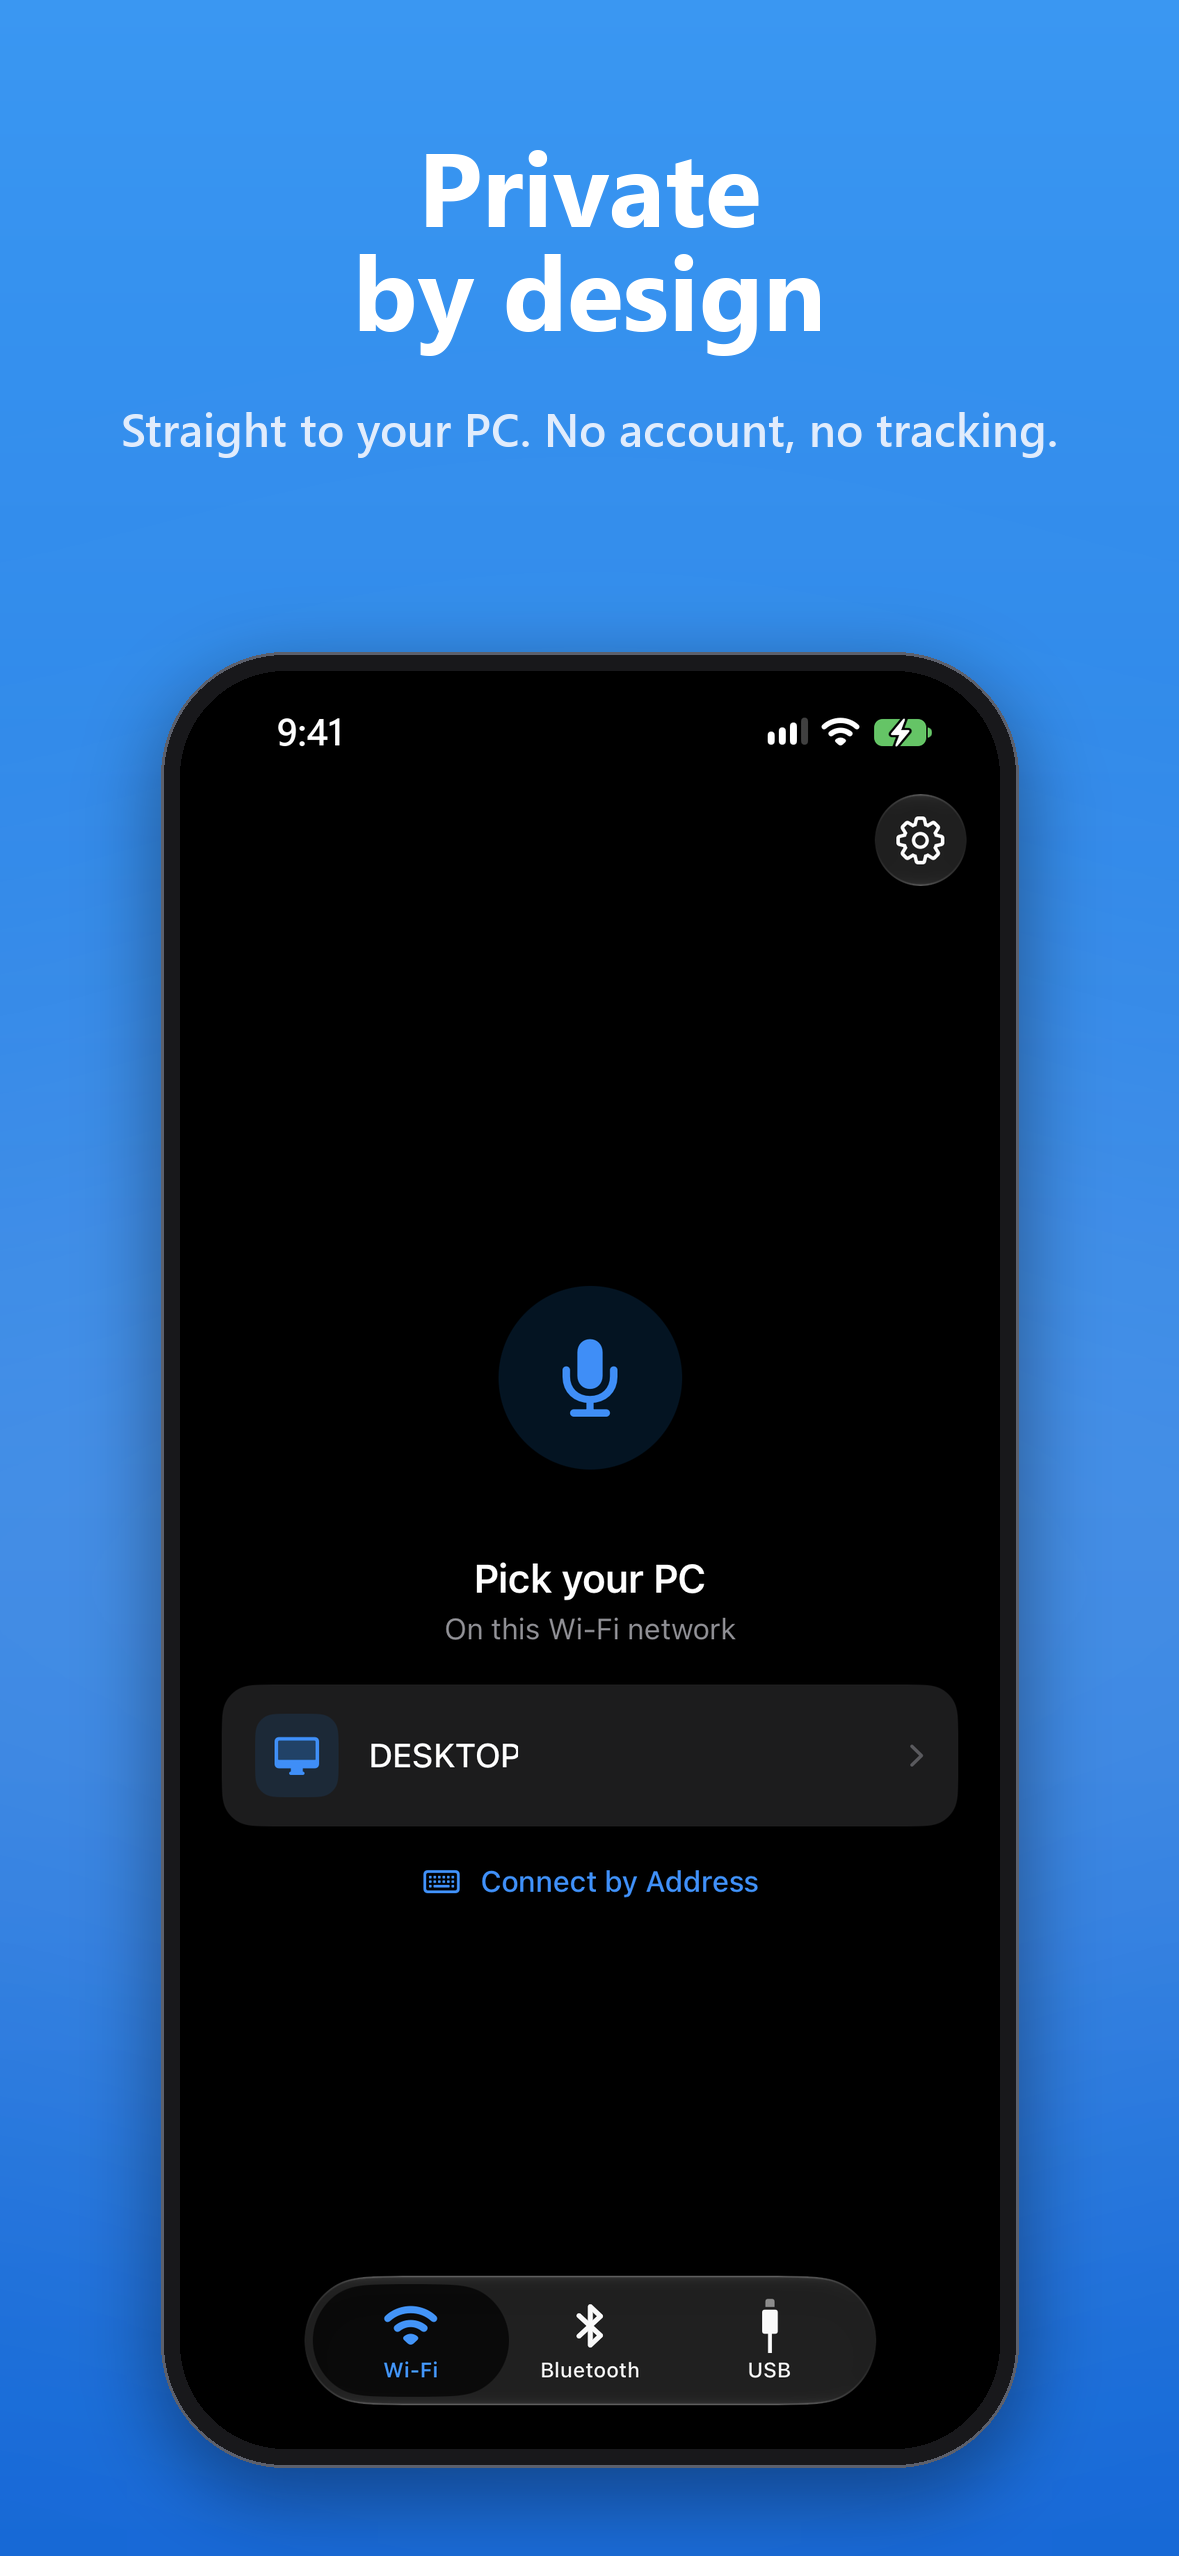
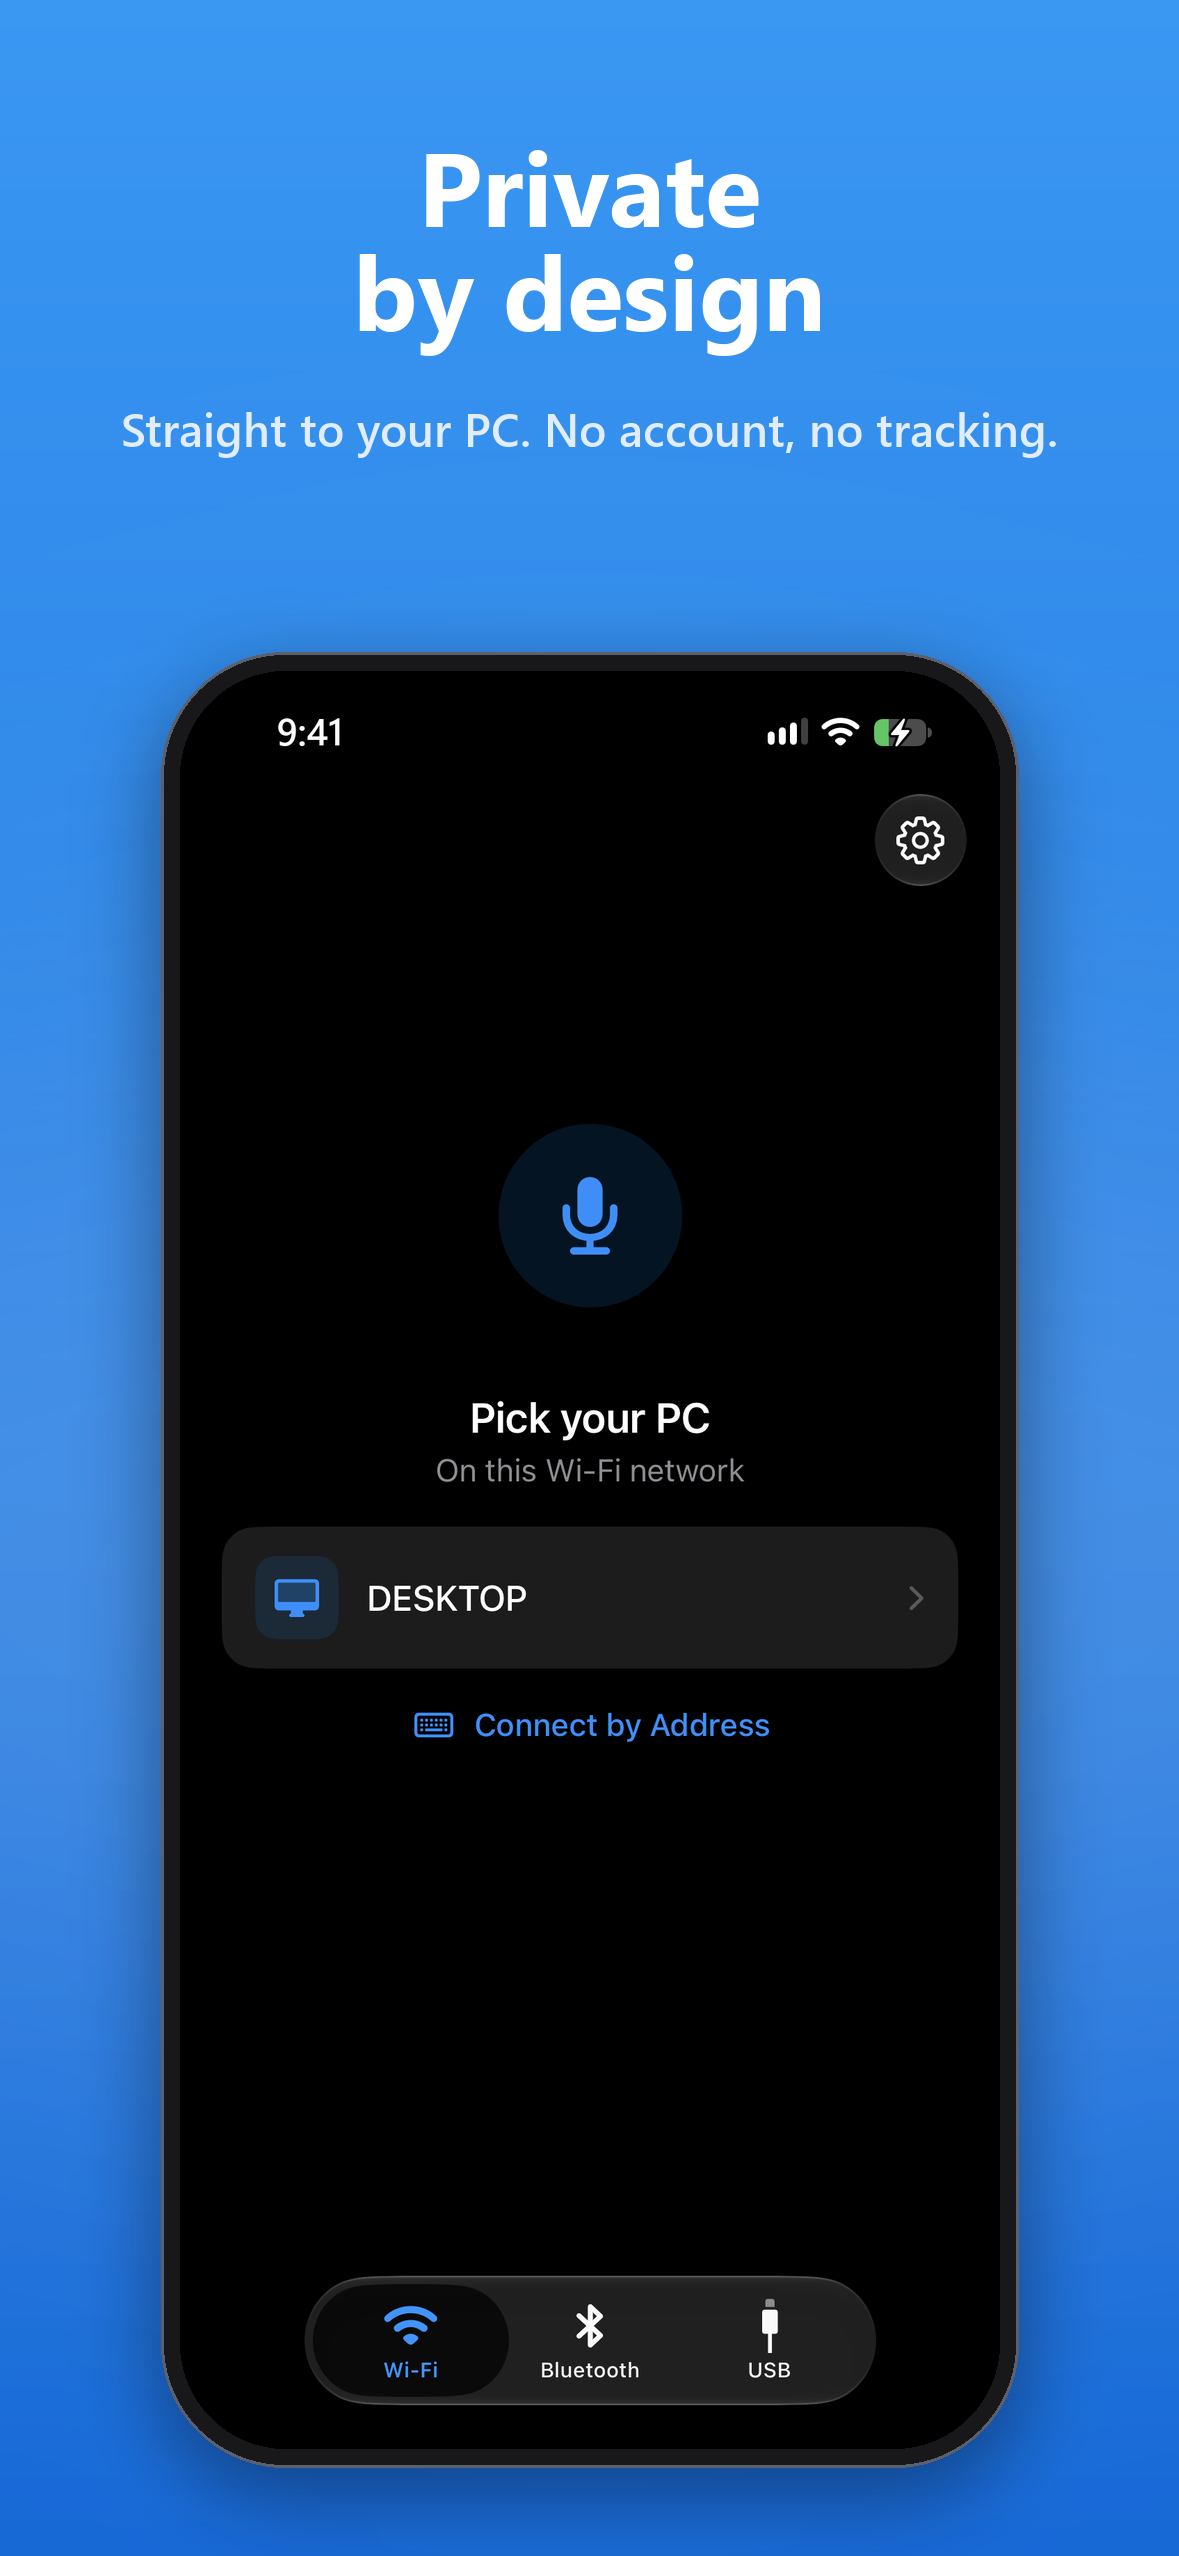
The new QR code; App Store screenshots of 1.3
- The App Store QR code without the old icon in its middle, for light and dark mode: in the
  Windows app's dialog, which follows its theme, and in the README. Module for module the
  same code as before outside the middle, so the same link.
- The App Store screenshots of the live, muted and USB screens are new: 1.3 replaced the Mic
  Mode button under the mute button with a warning that shows only when it's needed. The Lock
  Screen slide stays from 1.2. make_assets.py keeps a slide whose screenshot isn't there.

Changed region(s): [[0.1832, 0.4327, 0.8244, 0.7418], [0.7634, 0.2782, 0.7939, 0.3091]]

diff --git a/appstore/make_assets.py b/appstore/make_assets.py
@@ -22,24 +22,26 @@ FONTS = r"C:\Windows\Fonts"
 BLUE_TOP = (58, 151, 242)     # app icon gradient, #3A97F2
 BLUE_BOTTOM = (20, 103, 214)  # #1467D6
 
-SOURCES = {
-    "wifi": "IMG_3991.PNG",   # live over Wi-Fi
-    "usb": "IMG_3992.PNG",    # live over USB
-    "muted": "IMG_3993.PNG",  # muted (Wi-Fi)
-    "pick": "IMG_3994.PNG",   # the Wi-Fi tab's list of PCs
+SOURCES = {  # 1.3, 22 Nov 2026 (the Lock Screen from 1.2: without its file, the slide made then stays)
+    "wifi": "IMG_4098.PNG",   # live over Wi-Fi
+    "usb": "IMG_4096.PNG",    # live over USB (its status bar is the Wi-Fi one's: a Live Activity filled it)
+    "muted": "IMG_4099.PNG",  # muted (Wi-Fi)
+    "pick": "IMG_4100.PNG",   # the Wi-Fi tab's list of PCs
     "lock": "IMG_3995.PNG",   # Lock Screen with the Live Activity (only its pieces are used)
 }
 
 # Where things are in those screenshots (pixels, measured). The name "ATT_DESKTOP_OLD" sits between
 # two underscores; "DESKTOP" is what's between them.
-BUTTON_CENTER = (589.5, 1276.8)   # the mute button: the glow is a circle around it
-CHIP = {                          # the "<PC> · 8 ms" capsule under the title, y 851-924
-    # icon, "DESKTOP", " · 8 ms" (from the space after "OLD" to the end), as x ranges
-    "wifi": ((323, 367), (482, 647), (741, 858)),
-    "usb": ((324, 368), (483, 648), (742, 858)),
-    "muted": ((314, 358), (473, 638), (732, 869)),
+BUTTON_CENTER = (589.5, 1277.5)   # the mute button: the glow is a circle around it
+CHIP = {                          # the "<PC> · 3 ms" capsule under the title
+    # icon, "DESKTOP", " · 3 ms" (from the space after "OLD" to the end), as x ranges
+    "wifi": ((305, 351), (478, 656), (754, 879)),
+    "usb": ((305, 351), (478, 656), (754, 878)),
+    "muted": ((305, 351), (478, 656), (754, 878)),
 }
-CHIP_Y = (851, 924)
+CHIP_Y = (847, 924)
+CHIP_LETTERS_END = 899                # the underscore after "DESKTOP" starts here, under the P
+STATUS_BAR_HEIGHT = 165               # above the Settings button
 CHIP_PAD = (34, 32)                   # the capsule's edge to the icon, and the text to its edge
 CHIP_ICON_GAP = 28                    # icon to text
 CHIP_FILL = ((118, 118, 128), 0.245)  # iOS's tertiary fill over the glow (measured)
@@ -137,7 +139,7 @@ def rename_chip(im, kind):
         if piece is None:
             x += CHIP_ICON_GAP
             continue
-        for sy in range(y0, y1):
+        for sy in range(y0, CHIP_LETTERS_END if piece is name else y1):
             for sx in range(piece[0], piece[1]):
                 floor = capsule_fill(sx, sy)
                 k = max(0.0, min(1.0, (brightness(spx[sx, sy]) - floor - 1) / max(1, ink - floor)))
@@ -159,10 +161,11 @@ def clean(im, kind):
     if kind in CHIP:
         rename_chip(im, kind)
     if kind == "pick":
-        # The PC's row: "ATT_DESKTOP_OLD" from x 272, "DESKTOP" at 384-598.
+        # The PC's row: "ATT_DESKTOP_OLD" from x 272, "DESKTOP" at 393-619, letters y 1314-1351 (the
+        # underscore after it, under the P, from 1352).
         src = im.copy()
-        d.rectangle((266, 1530, 730, 1596), fill=src.getpixel((800, 1560)))
-        paste_glyph(im, src, (384, 1530, 598, 1596), (255, 255, 255), floor=40, at=(272, 1530))
+        d.rectangle((266, 1300, 750, 1370), fill=src.getpixel((800, 1335)))
+        paste_glyph(im, src, (393, 1300, 619, 1352), (255, 255, 255), floor=40, at=(272, 1300))
     return im
 
 
@@ -398,20 +401,24 @@ def header(screens):
 
 if __name__ == "__main__":
     src = sys.argv[1] if len(sys.argv) > 1 else os.path.expanduser("~/Downloads")
-    raw = {k: Image.open(os.path.join(src, v)).convert("RGB") for k, v in SOURCES.items()}
+    raw = {k: Image.open(os.path.join(src, v)).convert("RGB") for k, v in SOURCES.items()
+           if os.path.exists(os.path.join(src, v))}
+    raw["usb"].paste(raw["wifi"].crop((0, 0, raw["wifi"].width, STATUS_BAR_HEIGHT)), (0, 0))
     cleaned = {k: clean(im, k) for k, im in raw.items() if k != "lock"}
-    cleaned["lock"] = lock_screen(raw["lock"], live_activity=False)  # shown enlarged on top instead
-    lock_with_activity = lock_screen(raw["lock"])
+    if "lock" in raw:
+        cleaned["lock"] = lock_screen(raw["lock"], live_activity=False)  # shown enlarged on top instead
+        lock_with_activity = lock_screen(raw["lock"])
     for folder, size in (("6.1", (1179, 2556)), ("6.9", (1320, 2868))):
         folder_path = os.path.join(OUT, "screenshots", folder)
         os.makedirs(folder_path, exist_ok=True)
-        for old in os.listdir(folder_path):
-            os.remove(os.path.join(folder_path, old))
         for i, (kind, headline, subline) in enumerate(SLIDES, 1):
             path = os.path.join(folder_path, f"{i}-{kind}.png")
+            if kind not in cleaned:
+                print("kept", path)
+                continue
             # The Lock Screen buttons span y 2232-2408 and leave 148 px to the screen's bottom edge
             # (2556): the enlarged Live Activity ends the same 148 px above them.
-            callout = (lock_with_activity, (40, 1934, 1139, 2171), 70, 2232 - (2556 - 2408))
-            screenshot(cleaned[kind], headline, subline, size, callout=callout if kind == "lock" else None).save(path)
+            callout = (lock_with_activity, (40, 1934, 1139, 2171), 70, 2232 - (2556 - 2408)) if kind == "lock" else None
+            screenshot(cleaned[kind], headline, subline, size, callout=callout).save(path)
     header(raw).save(os.path.join(OUT, "header-universal.png"))
     print("wrote", OUT)

diff --git a/windows/Phomic/MainWindow.xaml.cpp b/windows/Phomic/MainWindow.xaml.cpp
@@ -1031,7 +1031,9 @@ namespace winrt::Phomic::implementation
         dialog.CloseButtonText(L"Close");
         dialog.DefaultButton(ContentDialogButton::Close);
 
-        auto stream = co_await ResourceStream(IDR_APPSTORE_QR);
+        // The code in the dialog's colors: black on white in light mode, white on black in dark mode.
+        const bool dark = RootPanel().ActualTheme() == ElementTheme::Dark;
+        auto stream = co_await ResourceStream(dark ? IDR_APPSTORE_QR_DARK : IDR_APPSTORE_QR_LIGHT);
         if (stream.Size() != 0)
         {
             co_await code.SetSourceAsync(stream);

diff --git a/windows/Phomic/resource.h b/windows/Phomic/resource.h
@@ -5,5 +5,6 @@
 // Apple's "Download on the App Store" badge (SVG), for light and dark mode.
 #define IDR_BADGE_BLACK 201
 #define IDR_BADGE_WHITE 202
-// QR code for Phomic on the App Store (JPEG, from App Store Connect).
-#define IDR_APPSTORE_QR 203
+// QR code for Phomic on the App Store (JPEG), for light mode (black on white) and dark mode (white on black).
+#define IDR_APPSTORE_QR_LIGHT 203
+#define IDR_APPSTORE_QR_DARK 204

diff --git a/README.md b/README.md
@@ -5,7 +5,7 @@ Your iPhone as a microphone for your Windows PC, over Wi-Fi, Bluetooth or a USB 
 <!-- One line each: split over lines, GitHub takes the image out of the link. -->
 <a href="https://apps.apple.com/app/phomic/id6835323092"><picture><source media="(prefers-color-scheme: dark)" srcset="appstore/badges/download-on-the-app-store-white.svg"><img src="appstore/badges/download-on-the-app-store-black.svg" alt="Download on the App Store" height="40"></picture></a>
 
-<a href="https://apps.apple.com/app/phomic/id6835323092"><img src="appstore/qr-code.png" alt="QR code: Phomic on the App Store" width="200"></a>
+<a href="https://apps.apple.com/app/phomic/id6835323092"><picture><source media="(prefers-color-scheme: dark)" srcset="appstore/qr-code-dark.jpg"><img src="appstore/qr-code-light.jpg" alt="QR code: Phomic on the App Store" width="200"></picture></a>
 
 ## Get started
 

diff --git a/appstore/metadata.md b/appstore/metadata.md
@@ -118,7 +118,8 @@ Background modes:
 
 ## Assets
 
-Made by `appstore/make_assets.py` from real dark-mode screenshots (1.2, Nov 2026): status bar set to 9:41, and
+Made by `appstore/make_assets.py` from real dark-mode screenshots (1.3, 22 Nov 2026; the Lock Screen from 1.2,
+16 Nov, kept since it didn't change): status bar set to 9:41, and
 the PC's name "DESKTOP", cut out of the real name so it stays in the iPhone's font. The Lock Screen slide keeps
 the real Live Activity but draws its own wallpaper and clock: the screenshot's wallpaper is someone else's art.
 
